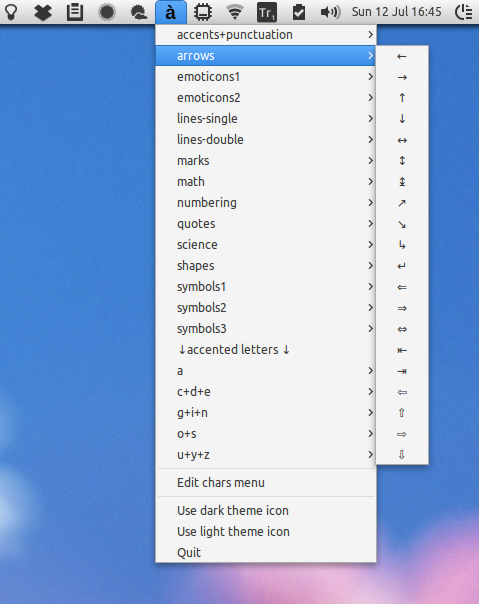
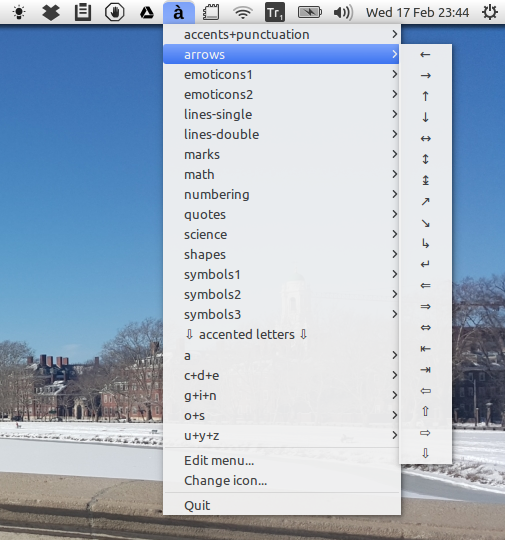
Upraded to 1.5

diff --git a/indicator-chars.py b/indicator-chars.py
@@ -39,7 +39,7 @@ import subprocess
 import appindicator
 
 APP_NAME = 'indicator-chars'
-APP_VERSION = '1.4'
+APP_VERSION = '1.5'
 
 class IndicatorChars:
     CHARS_PATH = os.path.join(os.getenv('HOME'), '.indicator-chars')
@@ -105,16 +105,13 @@ class IndicatorChars:
             menu.append(parentItem)
 
         menu.append(gtk.SeparatorMenuItem())
-        EditConfig_item = self.create_menu_item('Edit chars menu')
-        EditConfig_item.connect("activate", self.EditConfig)
-        menu.append(EditConfig_item)
+        EditMenu_item = self.create_menu_item('Edit menu...')
+        EditMenu_item.connect("activate", self.EditMenu)
+        menu.append(EditMenu_item)
+        ChangeIcon_item = self.create_menu_item('Change icon...')
+        ChangeIcon_item.connect("activate", self.ChangeIcon)
+        menu.append(ChangeIcon_item)
         menu.append(gtk.SeparatorMenuItem())
-        DarkTheme_item = self.create_menu_item('Use dark theme icon')
-        DarkTheme_item.connect("activate", self.DarkTheme)
-        menu.append(DarkTheme_item)
-        LightTheme_item = self.create_menu_item('Use light theme icon')
-        LightTheme_item.connect("activate", self.LightTheme)
-        menu.append(LightTheme_item)
         quit_item = self.create_menu_item('Quit')
         quit_item.connect("activate", self.on_quit)
         menu.append(quit_item)
@@ -129,14 +126,11 @@ class IndicatorChars:
         cb = gtk.Clipboard(selection="CLIPBOARD")
         cb.set_text(char)
 
-    def EditConfig(self, dude):
-	os.system("/usr/local/indicator-chars/edit-user-config")
+    def EditMenu(self, dude):
+	os.system("/usr/local/indicator-chars/indicator-chars.sh edit_menu")
 
-    def DarkTheme(self, dude):
-	os.system("sudo /usr/local/indicator-chars/dark-theme-icon && /usr/local/indicator-chars/restart")
-
-    def LightTheme(self, dude):
-	os.system("sudo /usr/local/indicator-chars/light-theme-icon && /usr/local/indicator-chars/restart")
+    def ChangeIcon(self, dude):
+	os.system("sudo /usr/local/indicator-chars/indicator-chars.sh change_icon && /usr/local/indicator-chars/indicator-chars.sh restart")
 
     def on_quit(self, widget):
         gtk.main_quit()

diff --git a/README.md b/README.md
@@ -14,7 +14,7 @@ Install
 
 - Checkout source files ( especially the DEB package ;-)
 
-- Create/Edit `~/.indicator-chars` if the one here isn't good enough for you
+- Create/Edit `~/.indicator-chars` file if the one here isn't good enough for you
 
   - Each row corresponds to a set of chars
 
@@ -34,6 +34,8 @@ Install
 
 Changelog
 -----------
+
+1.5: Merged all scripts as functions in one shell script, minor fixes and enhancements
 
 1.4: Changed icons
 
